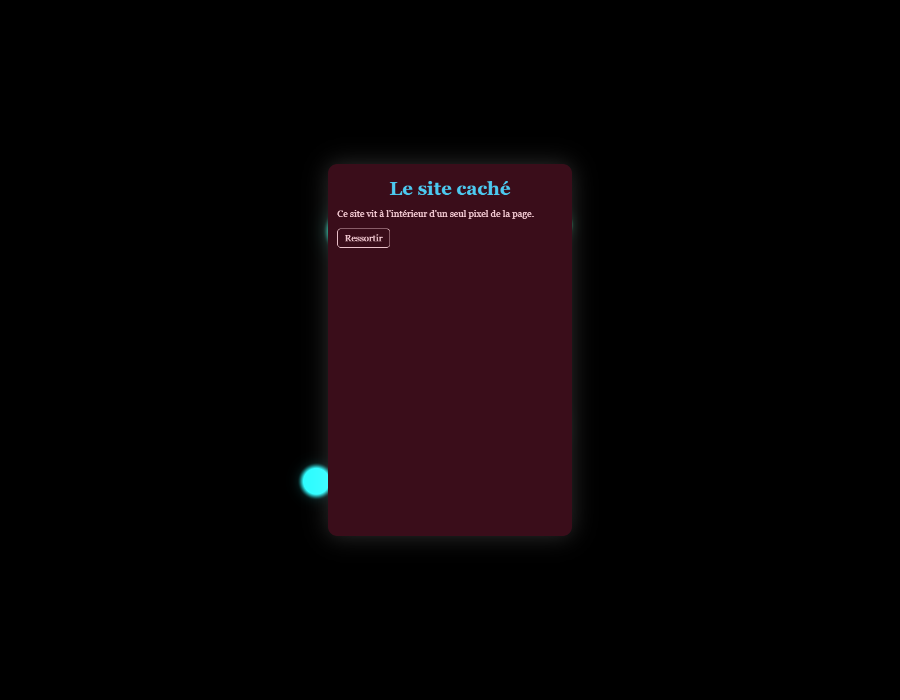
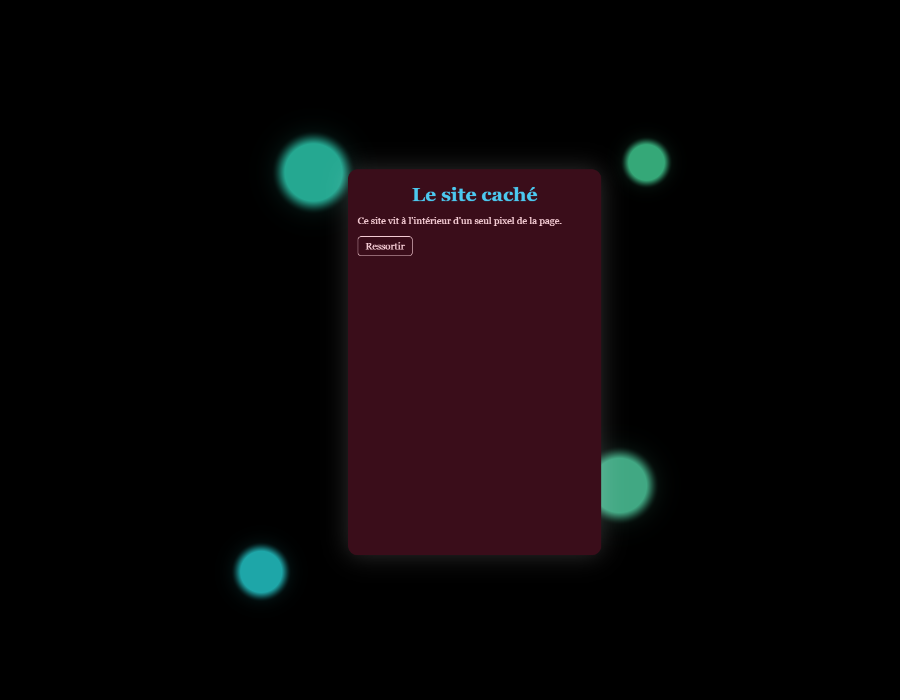
feat(langage): la boucle, le site d'un point s'ouvre en grand et contient d'autres sites
Un deuxième clic (ou un zoom) ouvre en grand le site contenu dans un point ; il
se regarde alors comme une page, avec ses propres pixels plantés. Adresse :
fichier.holo#Point/Point. Les points du monde entourent la feuille.
Tests du cœur : 59.

Changed region(s): [[0.28, 0.18, 0.7467, 0.81], [0.2489, 0.78, 0.3422, 0.87]]

diff --git a/moteur/web/page.html b/moteur/web/page.html
@@ -74,9 +74,17 @@
   const image = document.getElementById("image");
   const etat = document.getElementById("etat");
   const nombre = new Intl.NumberFormat("fr-FR");
-  // La feuille mesure 2 unités de haut dans le monde, dont les points sont sur une sphère de rayon 1.
-  const HAUTEUR_FEUILLE_MONDE = 2;
+  // Le site affiché : la page du fichier, ou le monde d'un de ses points, ouvert en grand.
+  // Son chemin est dans l'adresse, après le # : boutique.holo#Workshop.
+  const cheminDuSite = decodeURIComponent(location.hash.slice(1));
+  addEventListener("hashchange", () => location.reload());
+  // Les points d'un monde sont sur une sphère de rayon 1. La page vue en personnage y mesure
+  // 2 unités de haut ; le site d'un point, 1,3 : il laisse voir les autres points autour de lui.
+  const HAUTEUR_PAGE_MONDE = 2;
+  const HAUTEUR_SITE_MONDE = 1.3;
   const HAUTEUR_FEUILLE_PX = 640;
+  let hauteurFeuilleMonde = HAUTEUR_PAGE_MONDE;
+  let ouvertureEnCours = false;
   // Vue points : ce que le fichier en dit (Zoom, Points). Lu au démarrage.
   let densite = 2;          // points par pixel d'écran, dans chaque sens
   let reduire = false;      // dézoomer réduit-il la page jusqu'à un point ?
@@ -134,7 +142,12 @@
       const [x, y, echelle, lacet, tangage, profondeur, distance] = s;
       const demiHauteur = innerHeight / 2;
       const unite = echelle * demiHauteur; // pixels pour une unité du monde
-      const f = (unite * HAUTEUR_FEUILLE_MONDE) / HAUTEUR_FEUILLE_PX;
+      const f = (unite * hauteurFeuilleMonde) / HAUTEUR_FEUILLE_PX;
+      // En zoomant, le site d'un point grossit ; assez gros, il s'ouvre en grand.
+      if (feuille.dataset.world && f > 1.25 && profondeur === 0) {
+        ouvrirEnGrand(feuille);
+        return;
+      }
       // Plongé dans un point né de la graine, on a quitté le lieu où se trouve la feuille.
       feuille.style.visibility = profondeur > 0 ? "hidden" : "visible";
       feuille.style.transform =
@@ -145,8 +158,22 @@
     requestAnimationFrame(poserLaFeuille);
   }
 
+  // Le site d'un point passe de la feuille à la page entière : il devient le site affiché,
+  // avec ses propres points où l'on peut zoomer et entrer. La boucle recommence.
+  async function ouvrirEnGrand(monde) {
+    if (ouvertureEnCours) return;
+    ouvertureEnCours = true;
+    feuille = null;
+    monde.style.visibility = "visible";
+    monde.style.transition = "transform .4s ease-in";
+    monde.style.transform = `translate(-50%,-50%) scale(${Math.max(innerWidth / 420, innerHeight / 640) * 1.05})`;
+    await new Promise((suite) => setTimeout(suite, 420));
+    location.hash = [...cheminDuSite.split("/").filter(Boolean), monde.dataset.world].join("/");
+  }
+
   // Pose un élément dans le monde affiché (ou plus rien, avec null).
-  function poser(element) {
+  function poser(element, hauteur = HAUTEUR_PAGE_MONDE) {
+    hauteurFeuilleMonde = hauteur;
     if (feuille && feuille !== element) {
       feuille.style.transform = "";
       feuille.style.visibility = "visible";
@@ -357,6 +384,12 @@
 
   async function appliquer(effet) {
     const [nom, capacite] = effet.split(".");
+    // Sortir du site ouvert en grand : on remonte au site qui le contient.
+    const sites = cheminDuSite.split("/").filter(Boolean);
+    if (capacite === "leave" && !dansLePoint && sites.at(-1) === nom) {
+      location.hash = sites.slice(0, -1).join("/");
+      return;
+    }
     const monde = racine.querySelector(`section[data-world="${CSS.escape(nom)}"]`);
     if (!monde) return;
     if (capacite === "enter") {
@@ -364,9 +397,9 @@
       page.hidden = true;
       monde.hidden = false;
       document.getElementById("vues").hidden = true;
-      // Zoom 1 : le point vient de se morceler, ses enfants entourent la feuille.
-      await montrerMonde(source_du_point(source, nom), 1);
-      poser(monde);
+      // Le point s'est morcelé : ses enfants entourent la feuille, sur toute la fenêtre.
+      await montrerMonde(source_du_point(source, nom), 1.5);
+      poser(monde, HAUTEUR_SITE_MONDE);
     } else if (capacite === "leave" && dansLePoint === nom) {
       dansLePoint = null;
       poser(null);
@@ -381,7 +414,7 @@
   try {
     await init();
     source = await (await fetch(chemin, { headers: { accept: "text/plain" } })).text();
-    racine.innerHTML = vue_a_plat(source, base);
+    racine.innerHTML = vue_a_plat(source, base, cheminDuSite);
     [densite, reduire] = reglages_de_vue(source);
     reduire = reduire === 1;
     cadre = racine.querySelector(".holo-Page");
@@ -399,6 +432,9 @@
     }, true);
     racine.addEventListener("click", async (evenement) => {
       const bloc = evenement.target.closest("[data-name]");
+      // Un deuxième clic, sur le site d'un point posé dans son monde : il s'ouvre en grand.
+      const monde = evenement.target.closest("section[data-world]");
+      if (!bloc && monde && dansLePoint === monde.dataset.world) ouvrirEnGrand(monde);
       if (!bloc) return;
       for (const effet of effets(source, `${bloc.dataset.name}.tap`).split(",").filter(Boolean)) {
         await appliquer(effet);

diff --git a/moteur/src/plat.rs b/moteur/src/plat.rs
@@ -25,8 +25,15 @@ box-sizing:border-box;background:rgba(0,0,0,0.6);pointer-events:auto}";
 /// Fabrique la page. `base` est le dossier du fichier `.holo`, pour retrouver ses images.
 /// Le fichier doit avoir passé les vérifications (`crate::verifier_page`).
 pub fn page_html(programme: &Programme, base: &str) -> Result<String, Erreur> {
-    let page = &programme.racine;
-    if page.nom != "Page" {
+    site_html(programme, &programme.racine, base, "")
+}
+
+/// Fabrique la page d'un site. Un site est la `Page` du fichier, ou le monde contenu dans
+/// l'un de ses points : ouvert en grand, ce monde se regarde exactement comme une page, avec
+/// ses propres points, dans lesquels on peut entrer à leur tour. `titre` sert au monde, qui
+/// n'en a pas.
+pub fn site_html(programme: &Programme, page: &Bloc, base: &str, titre: &str) -> Result<String, Erreur> {
+    if page.nom != "Page" && page.nom != "World" {
         return Err(Erreur { message: format!("la vue à plat affiche une « Page » ; ce fichier commence par « {} »", page.nom), pos: page.pos });
     }
     let mut corps = String::new();
@@ -39,12 +46,17 @@ pub fn page_html(programme: &Programme, base: &str) -> Result<String, Erreur> {
     }
     let titre = match page.argument("title").map(|a| &a.valeur) {
         Some(Valeur::Texte(t)) => echapper(t),
-        _ => String::new(),
+        _ => echapper(titre),
+    };
+    // Un monde ouvert en grand prend le thème de la page, puis son propre style.
+    let classes = match (page.nom.as_str(), &page.style) {
+        ("World", Some(style)) => format!("holo-Page holo-monde-ouvert holo-s-{style}"),
+        ("World", None) => "holo-Page holo-monde-ouvert".to_string(),
+        _ => classes(page),
     };
     Ok(format!(
-        "<style>{BASE}{}</style><div class=\"{}\" data-title=\"{titre}\"><main>{corps}</main>{mondes}</div>",
-        css(programme),
-        classes(page)
+        "<style>{BASE}{}</style><div class=\"{classes}\" data-title=\"{titre}\"><main>{corps}</main>{mondes}</div>",
+        css(programme)
     ))
 }
 
@@ -61,6 +73,8 @@ fn css(programme: &Programme) -> String {
     let mut sortie = String::new();
     for regle in regles {
         let selecteur = match &regle.cible {
+            // Le style d'un monde vaut aussi quand ce monde est ouvert en grand.
+            Cible::Type(t) if t == "World" => ".holo-World,.holo-monde-ouvert".to_string(),
             Cible::Type(t) => format!(".holo-{t}"),
             Cible::Nom(n) => format!(".holo-s-{n}"),
         };
@@ -281,7 +295,7 @@ mod tests {
         }
         // Le thème avant les types, les types avant les styles nommés.
         let place = |morceau: &str| html.find(morceau).unwrap();
-        assert!(place(".holo-Page{") < place(".holo-H1{") && place(".holo-World{") < place(".holo-H1{") && place(".holo-P{") < place(".holo-s-card{"));
+        assert!(place(".holo-Page{") < place(".holo-H1{") && place(".holo-World,") < place(".holo-H1{") && place(".holo-P{") < place(".holo-s-card{"));
     }
 
     #[test]
@@ -294,6 +308,25 @@ mod tests {
         assert!(html.contains("data-world=\"Secret\" hidden><div class=\"holo-panneau\"><h1 class=\"holo-H1\">Hidden</h1>"));
         assert!(page("Page(pixels: [ P(\"x\") ])").unwrap_err().message.contains("des blocs « Point(...) »"));
         assert!(page("Page(pixels: [ Point(name: A, seed: 1) ])").unwrap_err().message.contains("un nom et un repère"));
+    }
+
+    #[test]
+    fn le_monde_d_un_point_s_ouvre_comme_une_page() {
+        let programme = lire(
+            "Page(title: \"Top\", children: [ Point(name: A, seed: 1, inside: World.rose(children: [ H1(\"Inside\"), Button(name: Out, text: \"x\") ], pixels: [ Point(name: B, above: Out, seed: 2, inside: World(children: [ P(\"Deeper\") ])) ])) ])\n.rose { background: #3a0d1a; }\nWorld { color: white; }",
+        )
+        .unwrap();
+        let monde = crate::regles::site_de(&programme, "A").unwrap();
+        let html = site_html(&programme, monde, "", "A").unwrap();
+        assert!(html.contains("<div class=\"holo-Page holo-monde-ouvert holo-s-rose\" data-title=\"A\"><main><h1 class=\"holo-H1\">Inside</h1>"), "{html}");
+        assert!(html.contains(".holo-World,.holo-monde-ouvert{color:white;}"));
+        // Il a ses propres points plantés, et leurs mondes : la boucle continue.
+        assert!(html.contains("<i class=\"holo-pixel\" data-name=\"B\" data-above=\"Out\""));
+        assert!(html.contains("data-world=\"B\" hidden>"));
+        let plus_profond = crate::regles::site_de(&programme, "A/B").unwrap();
+        assert!(site_html(&programme, plus_profond, "", "B").unwrap().contains("Deeper"));
+        assert!(crate::regles::site_de(&programme, "A/Nobody").unwrap_err().message.contains("aucun point"));
+        assert_eq!(crate::regles::site_de(&programme, "").unwrap().nom, "Page");
     }
 
     #[test]

diff --git a/moteur/src/regles.rs b/moteur/src/regles.rs
@@ -54,6 +54,26 @@ pub fn bloc_nomme<'a>(programme: &'a Programme, nom: &str) -> Option<&'a Bloc> {
     trouve
 }
 
+/// Le site que désigne un chemin de points : vide, c'est la page du fichier ; `Shop/Secret`,
+/// c'est le monde du point `Secret`, lui-même dans le monde du point `Shop`.
+pub fn site_de<'a>(programme: &'a Programme, chemin: &str) -> Result<&'a Bloc, Erreur> {
+    let mut site = &programme.racine;
+    for nom in chemin.split('/').filter(|n| !n.is_empty()) {
+        let mut trouve = None;
+        let _ = pour_chaque_bloc(site, &mut |bloc| {
+            if trouve.is_none() && bloc.nom == "Point" && nom_de(bloc) == Some(nom) {
+                trouve = Some(bloc);
+            }
+            Ok(())
+        });
+        site = match trouve.and_then(|point| point.argument("inside")).map(|a| &a.valeur) {
+            Some(Valeur::Bloc(monde)) if monde.nom == "World" => monde,
+            _ => return Err(Erreur { message: format!("aucun point nommé « {nom} » ne contient un monde, à cet endroit du fichier"), pos: site.pos }),
+        };
+    }
+    Ok(site)
+}
+
 /// Vérifie les noms (aucun en double), les règles (signaux et capacités connus) et les
 /// budgets (le contenu d'un point ne pèse pas plus que ce qu'il déclare).
 pub fn verifier_regles(programme: &Programme) -> Result<(), Erreur> {

diff --git a/moteur/src/lib.rs b/moteur/src/lib.rs
@@ -52,7 +52,15 @@ pub fn verifier_page(source: &str) -> Result<Programme, Erreur> {
 
 /// La vue à plat d'un fichier `.holo` : une page web ordinaire, fabriquée par le moteur.
 pub fn vue_a_plat(source: &str, base: &str) -> Result<String, Erreur> {
-    plat::page_html(&verifier_page(source)?, base)
+    vue_a_plat_de(source, base, "")
+}
+
+/// La vue à plat d'un site du fichier : sa page (chemin vide), ou le monde d'un de ses points
+/// (`Shop/Secret`), ouvert en grand comme une page.
+pub fn vue_a_plat_de(source: &str, base: &str, chemin: &str) -> Result<String, Erreur> {
+    let programme = verifier_page(source)?;
+    let site = regles::site_de(&programme, chemin)?;
+    plat::site_html(&programme, site, base, chemin.rsplit('/').next().unwrap_or(""))
 }
 
 /// Les effets que les règles du fichier demandent pour un signal, comme `Open.tap`.

diff --git a/moteur/src/web.rs b/moteur/src/web.rs
@@ -240,8 +240,8 @@ pub fn monde_d_accueil(source: &str) -> Option<String> {
 
 /// La vue à plat : la page web ordinaire d'un fichier `.holo`, fabriquée par le moteur.
 #[wasm_bindgen]
-pub fn vue_a_plat(source: &str, base: &str) -> Result<String, JsValue> {
-    crate::vue_a_plat(source, base).map_err(|e| JsValue::from_str(&e.to_string()))
+pub fn vue_a_plat(source: &str, base: &str, chemin: Option<String>) -> Result<String, JsValue> {
+    crate::vue_a_plat_de(source, base, chemin.as_deref().unwrap_or("")).map_err(|e| JsValue::from_str(&e.to_string()))
 }
 
 /// Les effets demandés par un signal (`Open.tap`), séparés par des virgules.

diff --git a/docs/06-journal/JOURNAL.md b/docs/06-journal/JOURNAL.md
@@ -6,6 +6,34 @@ Pour l'état courant en un coup d'œil, voir [`AGENTS.md`](../../AGENTS.md) à l
 
 ---
 
+## 2026-10-03 — La boucle : un site dans un pixel, dans un site, dans un pixel…
+
+**Retour de Yocthan sur le site planté dans un pixel**
+
+- Le site caché apparaît bien, mais il s'arrête à la vue personnage. Il veut qu'un deuxième clic, ou un zoom, l'agrandisse jusqu'à sa taille normale, et qu'on retrouve alors le même mécanisme que pour le site d'origine : zoomer, voir les pixels, cliquer, entrer. « La boucle va continuer jusqu'à l'infini. »
+- Il a aimé les points derrière la feuille. Il les veut répartis sur toute la fenêtre plutôt qu'un fond noir : l'utilisateur cliquera sur d'autres sites, d'autres mondes. « Ce sera vraiment le multivers. »
+
+**Fait**
+
+- Le monde d'un point s'ouvre en grand comme une page. Un deuxième clic sur la feuille, ou un zoom qui la grossit assez, et le site caché prend toute la fenêtre : c'est alors un site comme un autre, avec ses boutons, sa vue points, sa vue personnage.
+- Un `World` accepte `pixels:` : un site peut en contenir un autre, qui en contient un autre. Le site de Yocthan a maintenant trois niveaux (son site, « Le site caché » dans un pixel rose, « Le trésor » dans un pixel doré du site caché).
+- Chaque site a son adresse : le fichier, puis `#` et le chemin des points, comme `mon-site.holo#Secret/Tresor`. Le bouton « retour » du navigateur remonte d'un niveau, et une règle `leave` aussi.
+- Les points du monde entourent la feuille sur toute la fenêtre : la feuille est plus petite, et l'on part d'un peu plus près.
+- Vérifié avec de vrais gestes envoyés à Chrome : zoom sur le pixel rose, clic, feuille ; clic sur la feuille, adresse `#Secret` et site en grand ; zoom sur le pixel doré, clic, feuille du trésor ; clic, adresse `#Secret/Tresor` ; bouton « Remonter », adresse `#Secret`.
+- Guide mis à jour. Tests du cœur : 59 sur 59.
+
+![Le site caché ouvert en grand, avec son propre pixel doré à droite](images/2026-10-03-pixel-3-en-grand.png)
+
+![Le troisième site, dans un pixel du site caché](images/2026-10-03-pixel-4-tresor.png)
+
+**Limites, dites à Yocthan**
+
+- Ouvrir un site en grand recharge la page : il y a un bref noir entre la feuille qui grossit et le site en grand.
+- Les points autour de la feuille sont ceux que la graine calcule : on peut y entrer (c'est le Big Bang), mais ils ne contiennent pas de site écrit. Y poser de vrais sites est le chantier A.
+- Le nombre de niveaux n'est pas limité : le garde-fou que Yocthan a évoqué reste à décider.
+
+---
+
 ## 2026-10-03 — Un site planté dans un pixel de la page
 
 **Ce que Yocthan a demandé**

diff --git a/docs/01-holocode/GUIDE.md b/docs/01-holocode/GUIDE.md
@@ -229,7 +229,10 @@ Page(
 - `above: Open` place le point juste au-dessus du bloc nommé `Open`, à l'extrémité droite de la page. C'est, pour l'instant, la seule façon de dire où il est.
 - `color` lui donne une couleur qui le distingue de la page.
 - `World.secret(...)` donne au site du dedans son propre style.
-- Le site contenu dans un point se voit comme une feuille posée dans le monde de ce point.
+- Le site contenu dans un point se voit d'abord comme une feuille posée dans le monde de ce point, entourée des autres points de ce monde.
+- Un deuxième clic sur la feuille (ou un zoom) l'ouvre en grand : c'est alors un site comme un autre, avec ses propres pixels où l'on peut zoomer. Le `World` d'un point accepte lui aussi `pixels:`, donc un site peut en contenir un autre, qui en contient un autre, sans fin.
+- Chaque site a son adresse : celle du fichier, puis `#` et le chemin des points traversés, comme `mon-site.holo#Secret/Tresor`. Le bouton « retour » du navigateur remonte d'un site.
+- `On(Out.tap, effect: Secret.leave)` fait ressortir du site `Secret`, qu'il soit en feuille ou ouvert en grand.
 
 Cette écriture est provisoire : elle sert à voir l'effet, et sera revue.
 
@@ -315,7 +318,7 @@ Une unité se colle au nombre : `500KB`, jamais `500 KB`.
 | `List` | `children`, `name` | Dans `children` |
 | `Button` | `name`, `text` | Dans `children` |
 | `Point` | `name`, `seed`, `brightness`, `fragments`, `color`, `palette`, `budget`, `inside` ; `above` quand il est planté dans un pixel | Dans `children` ou `pixels`, ou à la racine |
-| `World` | `children`, `rules` | Dans `inside:` d'un `Point` |
+| `World` | `children`, `pixels`, `rules` | Dans `inside:` d'un `Point` |
 | `On` | le signal, puis `effect:` | Dans `rules` |
 | `Zoom`, `Points`, `Relief` | voir la partie 7 | Dans `zoom:`, `points:`, `relief:` d'une `Page` |
 

diff --git a/moteur/README.md b/moteur/README.md
@@ -61,7 +61,7 @@ Le rapport contient : le moteur de rendu utilisé, les images par seconde, la pi
 
 | Mesure | Résultat | Cible du sprint |
 |---|---|---|
-| Tests du cœur (`cargo test`, Rust natif) | 58 sur 58 (17 au premier sprint, 18 avec le toucher, 19 avec les corrections de la revue Codex, 23 avec la vérification des blocs de texte, 28 avec les styles, 29 avec l'exemple de la boutique comparée, 40 avec la vue à plat et les règles, 42 avec la vue personnage, 49 avec la mosaïque, 52 avec sa profondeur, 56 avec les réglages de vue écrits dans le fichier, 57 avec les exemples du guide, 58 avec les points plantés dans un pixel) ; dix-sept cas de la suite de conformité y sont lus directement | |
+| Tests du cœur (`cargo test`, Rust natif) | 59 sur 59 (17 au premier sprint, 18 avec le toucher, 19 avec les corrections de la revue Codex, 23 avec la vérification des blocs de texte, 28 avec les styles, 29 avec l'exemple de la boutique comparée, 40 avec la vue à plat et les règles, 42 avec la vue personnage, 49 avec la mosaïque, 52 avec sa profondeur, 56 avec les réglages de vue écrits dans le fichier, 57 avec les exemples du guide, 58 avec les points plantés dans un pixel, 59 avec les sites emboîtés) ; dix-sept cas de la suite de conformité y sont lus directement | |
 | Poids du moteur WebAssembly, brut | 1 942 815 octets (1 943 Ko, 1 Ko = 1 000 octets, comme dans la suite de conformité) | |
 | Poids transféré (Brotli, qualité 11, mesuré localement) | **502 435 octets (502 Ko)**, plus 14 373 octets de JavaScript | moins de 2 Mo |
 | Commit de cette mesure | `8348169`, PC Windows, Rust 1.99 ; le flux GitHub affiche le poids brut à chaque changement | |
